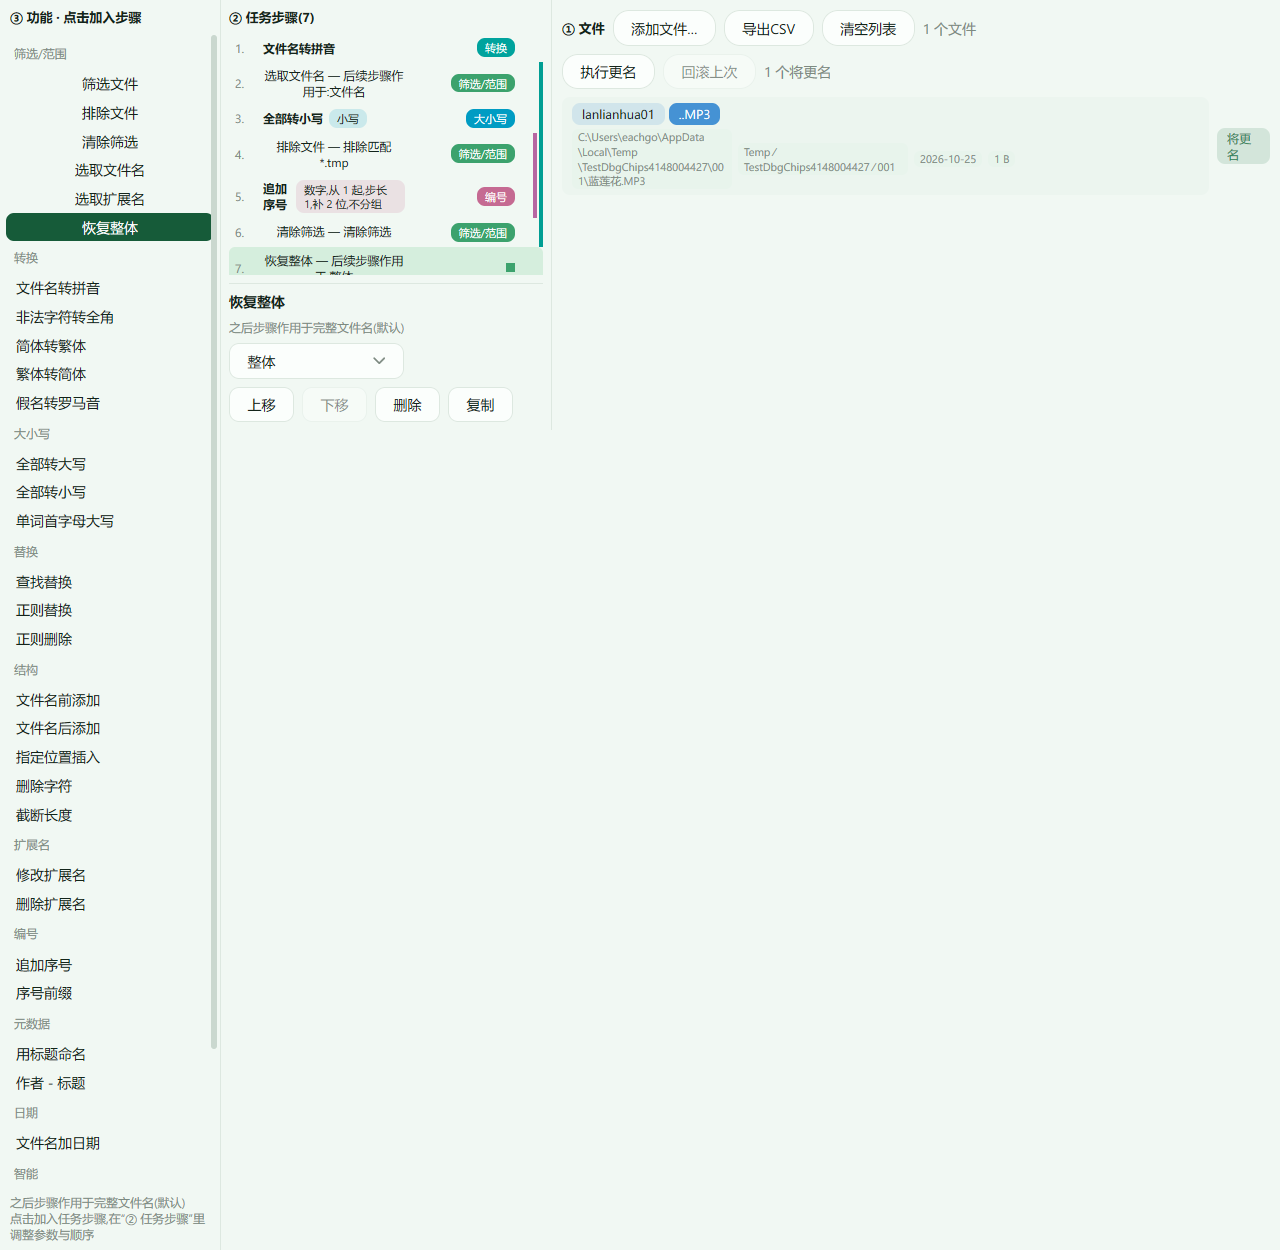
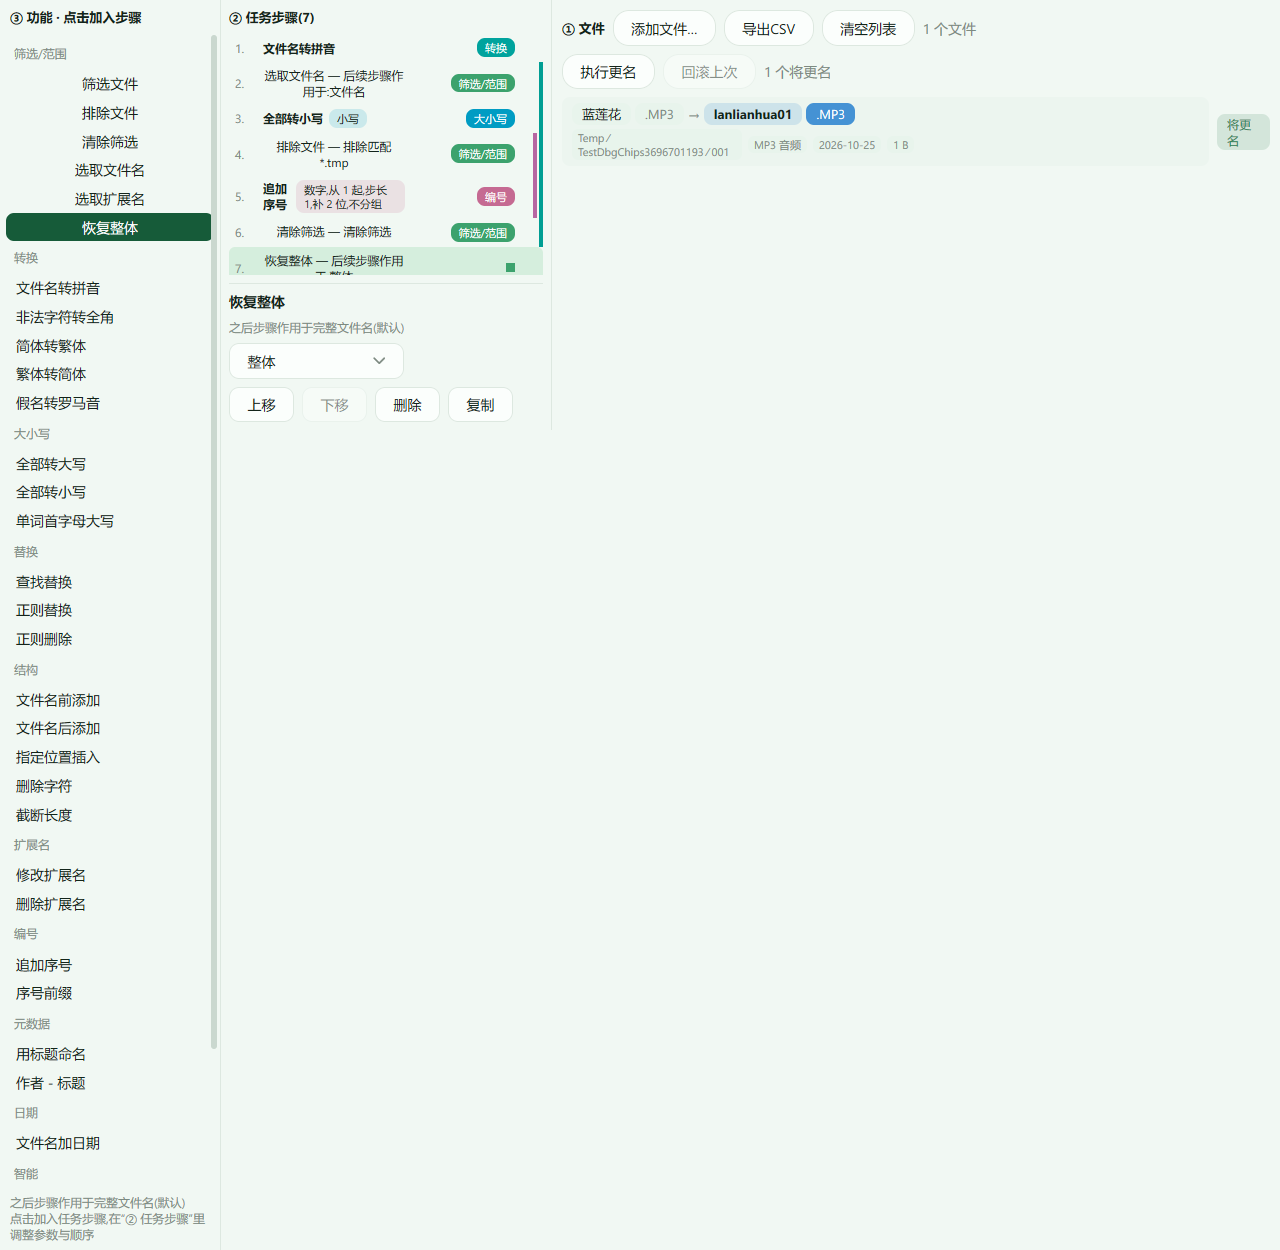
UX: 文件卡上行改为 原名→新名 对照;真实类型胶囊常显(不符时红色);路径悬停显示绝对地址;修 ..png 双点与绝对路径污染

Changed region(s): [[0.4375, 0.0624, 0.6875, 0.156], [0.9375, 0.0936, 1.0, 0.156], [0.7188, 0.1248, 0.75, 0.156]]

diff --git a/gui/main.go b/gui/main.go
@@ -352,42 +352,61 @@ func (a *app) filesView(c *ui.Context) {
 			})
 		} else {
 			dt := a.currentTheme()
-			// 每个文件两张行卡:上行预览名(胶囊文件名.胶囊扩展名),下行
-			// 原始数据(原名/路径三层/真实类型/日期/大小),右缘结果
+			// 每个文件两行卡:上行 原名 → 新名(预览)对照,左原右新;
+			// 下行 原始数据胶囊,路径悬停显示绝对地址
 			ui.List(c, &a.table, len(a.files), func(i int) {
 				f := a.files[i]
 				ui.Row(c).Fill().Gap(8).Children(func() {
 					card := ui.Column(c).Fill().Gap(4).Padding(6, 10).Radius(8).
 						Background(dt.cardBgFor(a.isDark()))
 					card.Children(func() {
-						// 上行:预览名,扩展名按类型着色
-						name := f.path
+						oldName := filepath.Base(f.path)
+						newName := oldName
 						if i < len(a.ops) && a.ops[i].NewName != "" {
-							name = a.ops[i].NewName
+							newName = a.ops[i].NewName
 						}
-						stem, ext := filepathSplitName(name)
-						cat := extCategory(strings.ToLower(ext))
-						col := fileCatColor(dt, cat)
+						changed := newName != oldName
+						oStem, oExt := filepathSplitName(oldName)
+						nStem, nExt := filepathSplitName(newName)
+						col := fileCatColor(dt, extCategory(strings.ToLower(nExt)))
 						ui.Row(c).Gap(4).Children(func() {
-							ui.Text(c, stem).FontSize(13).Padding(2, 10).Radius(8).
-								Background(col.Alpha(0.16))
-							if ext != "" {
-								ui.Text(c, "."+ext).FontSize(13).Padding(2, 10).Radius(8).
-									Background(col).TextColor(ui.RGB(255, 255, 255))
+							// 原名
+							ui.Text(c, oStem).FontSize(13).Padding(2, 10).Radius(8).
+								Background(t.SurfaceHover).MaxWidth(180).Ellipsis("…")
+							if oExt != "" {
+								ui.Text(c, oExt).FontSize(13).Padding(2, 10).Radius(8).
+									Background(t.SurfaceHover).TextColor(t.TextMuted)
+							}
+							if changed {
+								ui.Text(c, "→").TextColor(t.TextMuted)
+								// 新名(预览),类型色强调
+								ui.Text(c, nStem).FontSize(13).Bold().Padding(2, 10).Radius(8).
+									Background(col.Alpha(0.18)).MaxWidth(180).Ellipsis("…")
+								if nExt != "" {
+									ui.Text(c, nExt).FontSize(13).Padding(2, 10).Radius(8).
+										Background(col).TextColor(ui.RGB(255, 255, 255))
+								}
 							}
 							ui.Spacer(c)
 						})
-						// 下行:原始数据,muted 小胶囊
+						// 下行:原始数据胶囊;路径悬停显示绝对地址
 						ui.Row(c).Gap(6).Children(func() {
-							oldStem, oldExt := filepathSplitName(f.path)
-							ui.Text(c, oldStem+oldExt).FontSize(11).Padding(1, 6).Radius(6).
-								Background(t.SurfaceHover).TextColor(t.TextMuted).MaxWidth(160).Ellipsis("…")
-							ui.Text(c, pathTail3(filepath.Dir(f.path))).FontSize(11).Padding(1, 6).Radius(6).
+							path := ui.Text(c, pathTail3(filepath.Dir(f.path))).FontSize(11).Padding(1, 6).Radius(6).
 								Background(t.SurfaceHover).TextColor(t.TextMuted).MaxWidth(170).Ellipsis("…")
-							// 真实类型:与扩展名不符时警示
-							if f.realType != "" && !strings.EqualFold(f.realType, strings.TrimPrefix(oldExt, ".")) {
-								ui.Text(c, "实际 "+f.realType).FontSize(11).Padding(1, 6).Radius(6).
-									Background(t.Danger.Alpha(0.15)).TextColor(t.Danger)
+							path.Tooltip(filepath.Dir(f.path))
+							// 真实类型:始终显示;与扩展名不符时红色警示
+							extNoDot := strings.ToLower(strings.TrimPrefix(oExt, "."))
+							if f.realType != "" {
+								if !strings.EqualFold(f.realType, extNoDot) {
+									ui.Text(c, "实际 "+f.realType).FontSize(11).Padding(1, 6).Radius(6).
+										Background(t.Danger.Alpha(0.15)).TextColor(t.Danger)
+								} else {
+									ui.Text(c, f.realType).FontSize(11).Padding(1, 6).Radius(6).
+										Background(t.SurfaceHover).TextColor(t.TextMuted)
+								}
+							} else if f.typ != "" && f.typ != "无扩展名" {
+								ui.Text(c, f.typ).FontSize(11).Padding(1, 6).Radius(6).
+									Background(t.SurfaceHover).TextColor(t.TextMuted)
 							}
 							ui.Text(c, f.modTime.Format("2006-01-02")).FontSize(11).Padding(1, 6).Radius(6).
 								Background(t.SurfaceHover).TextColor(t.TextMuted)
